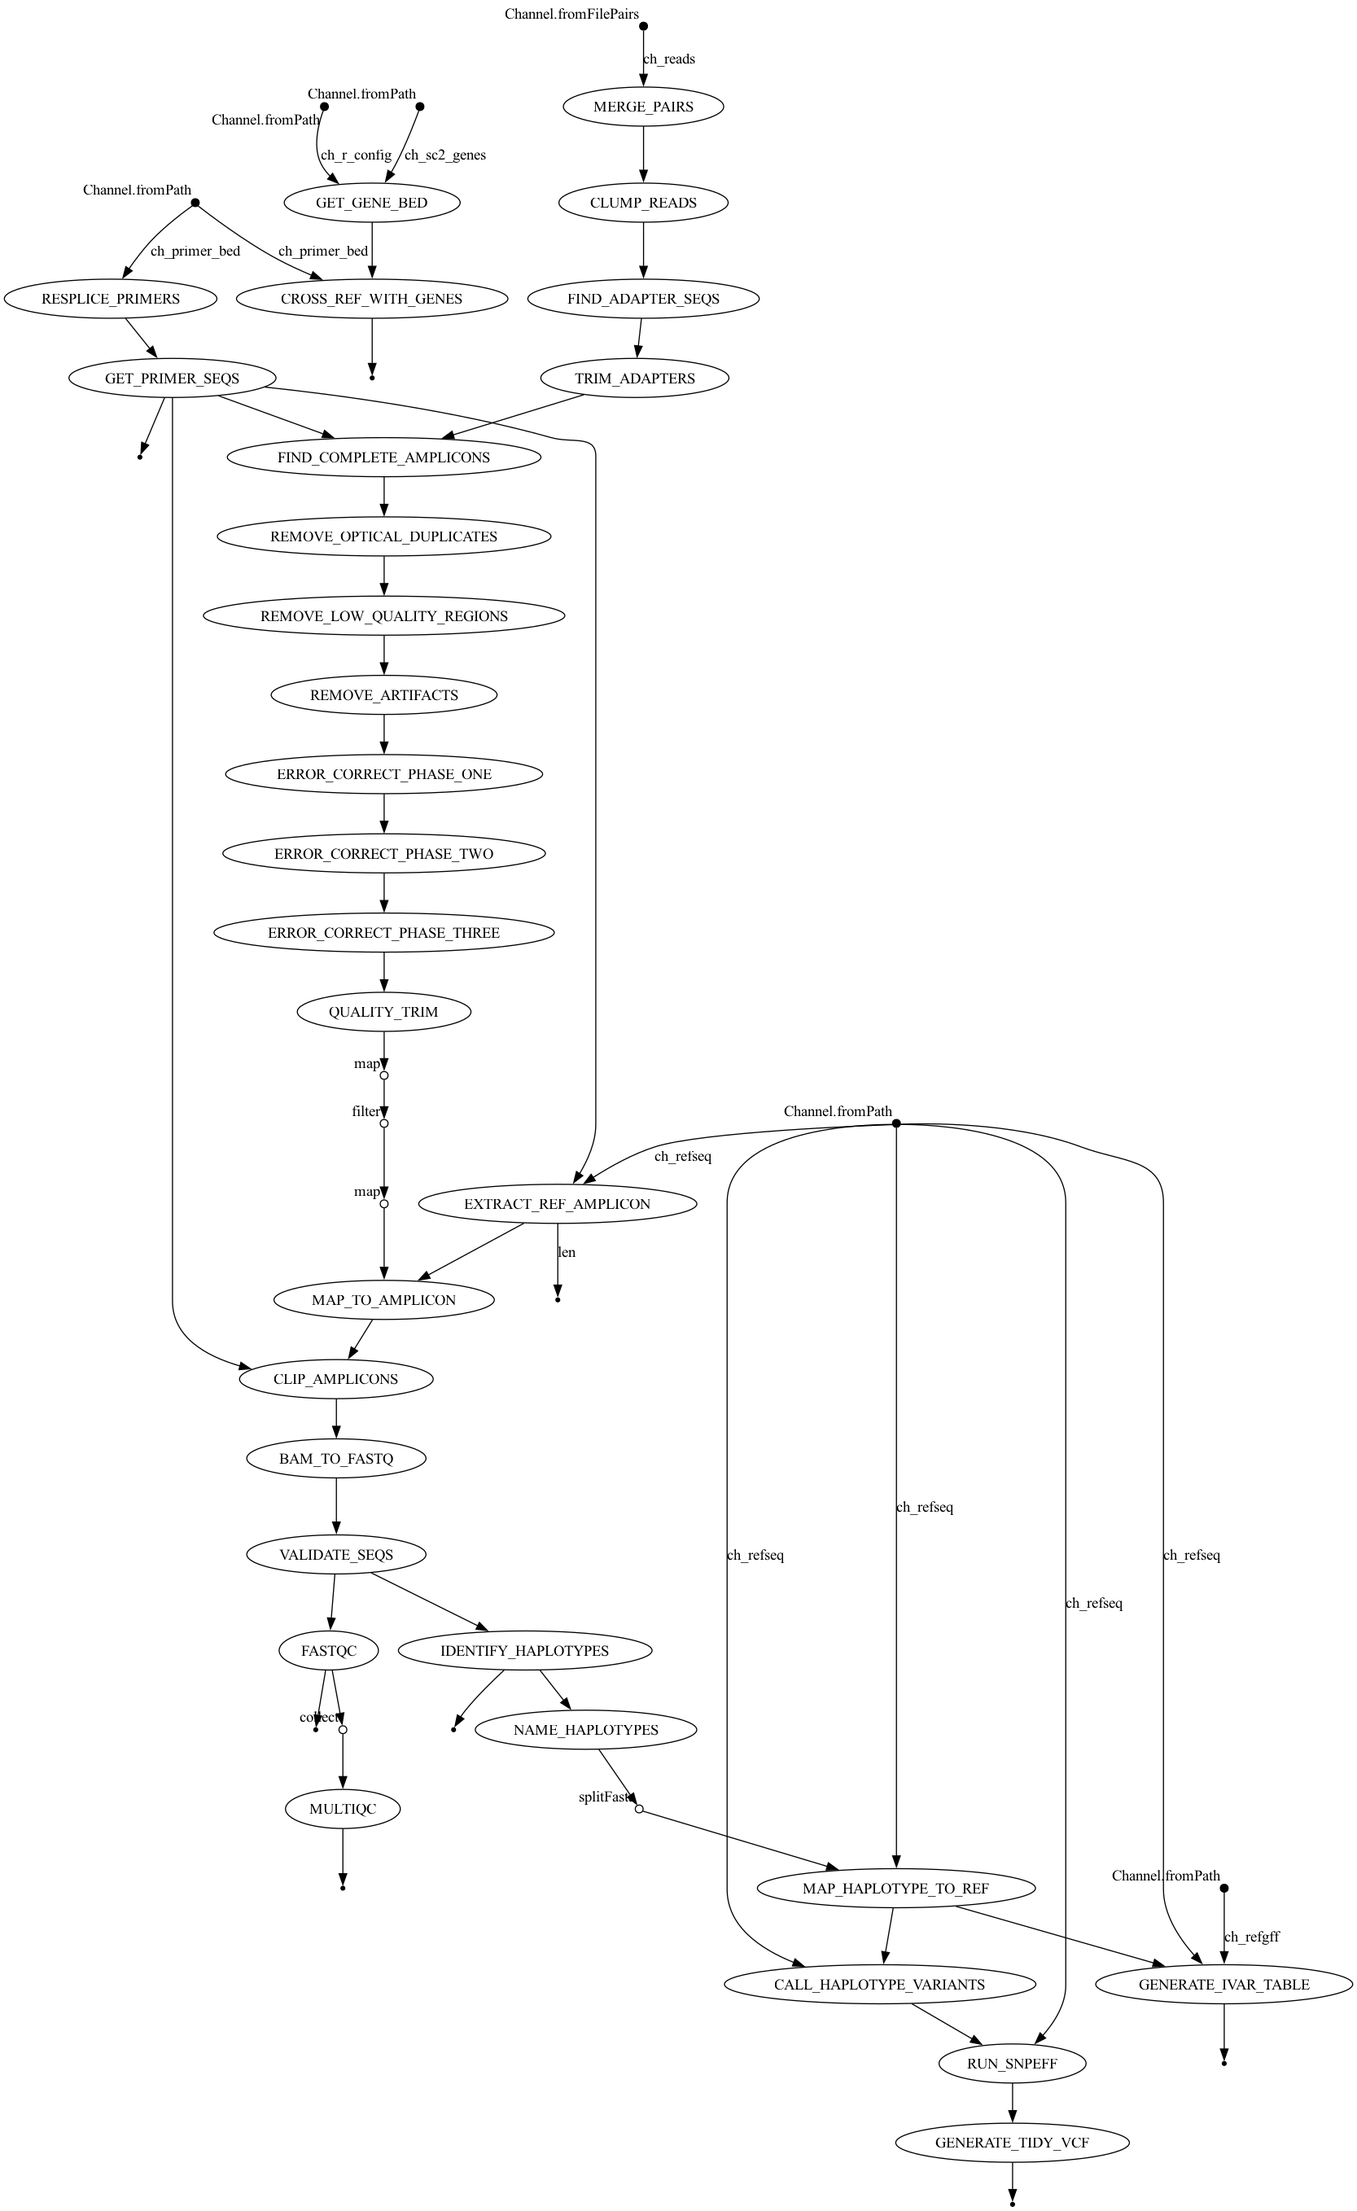
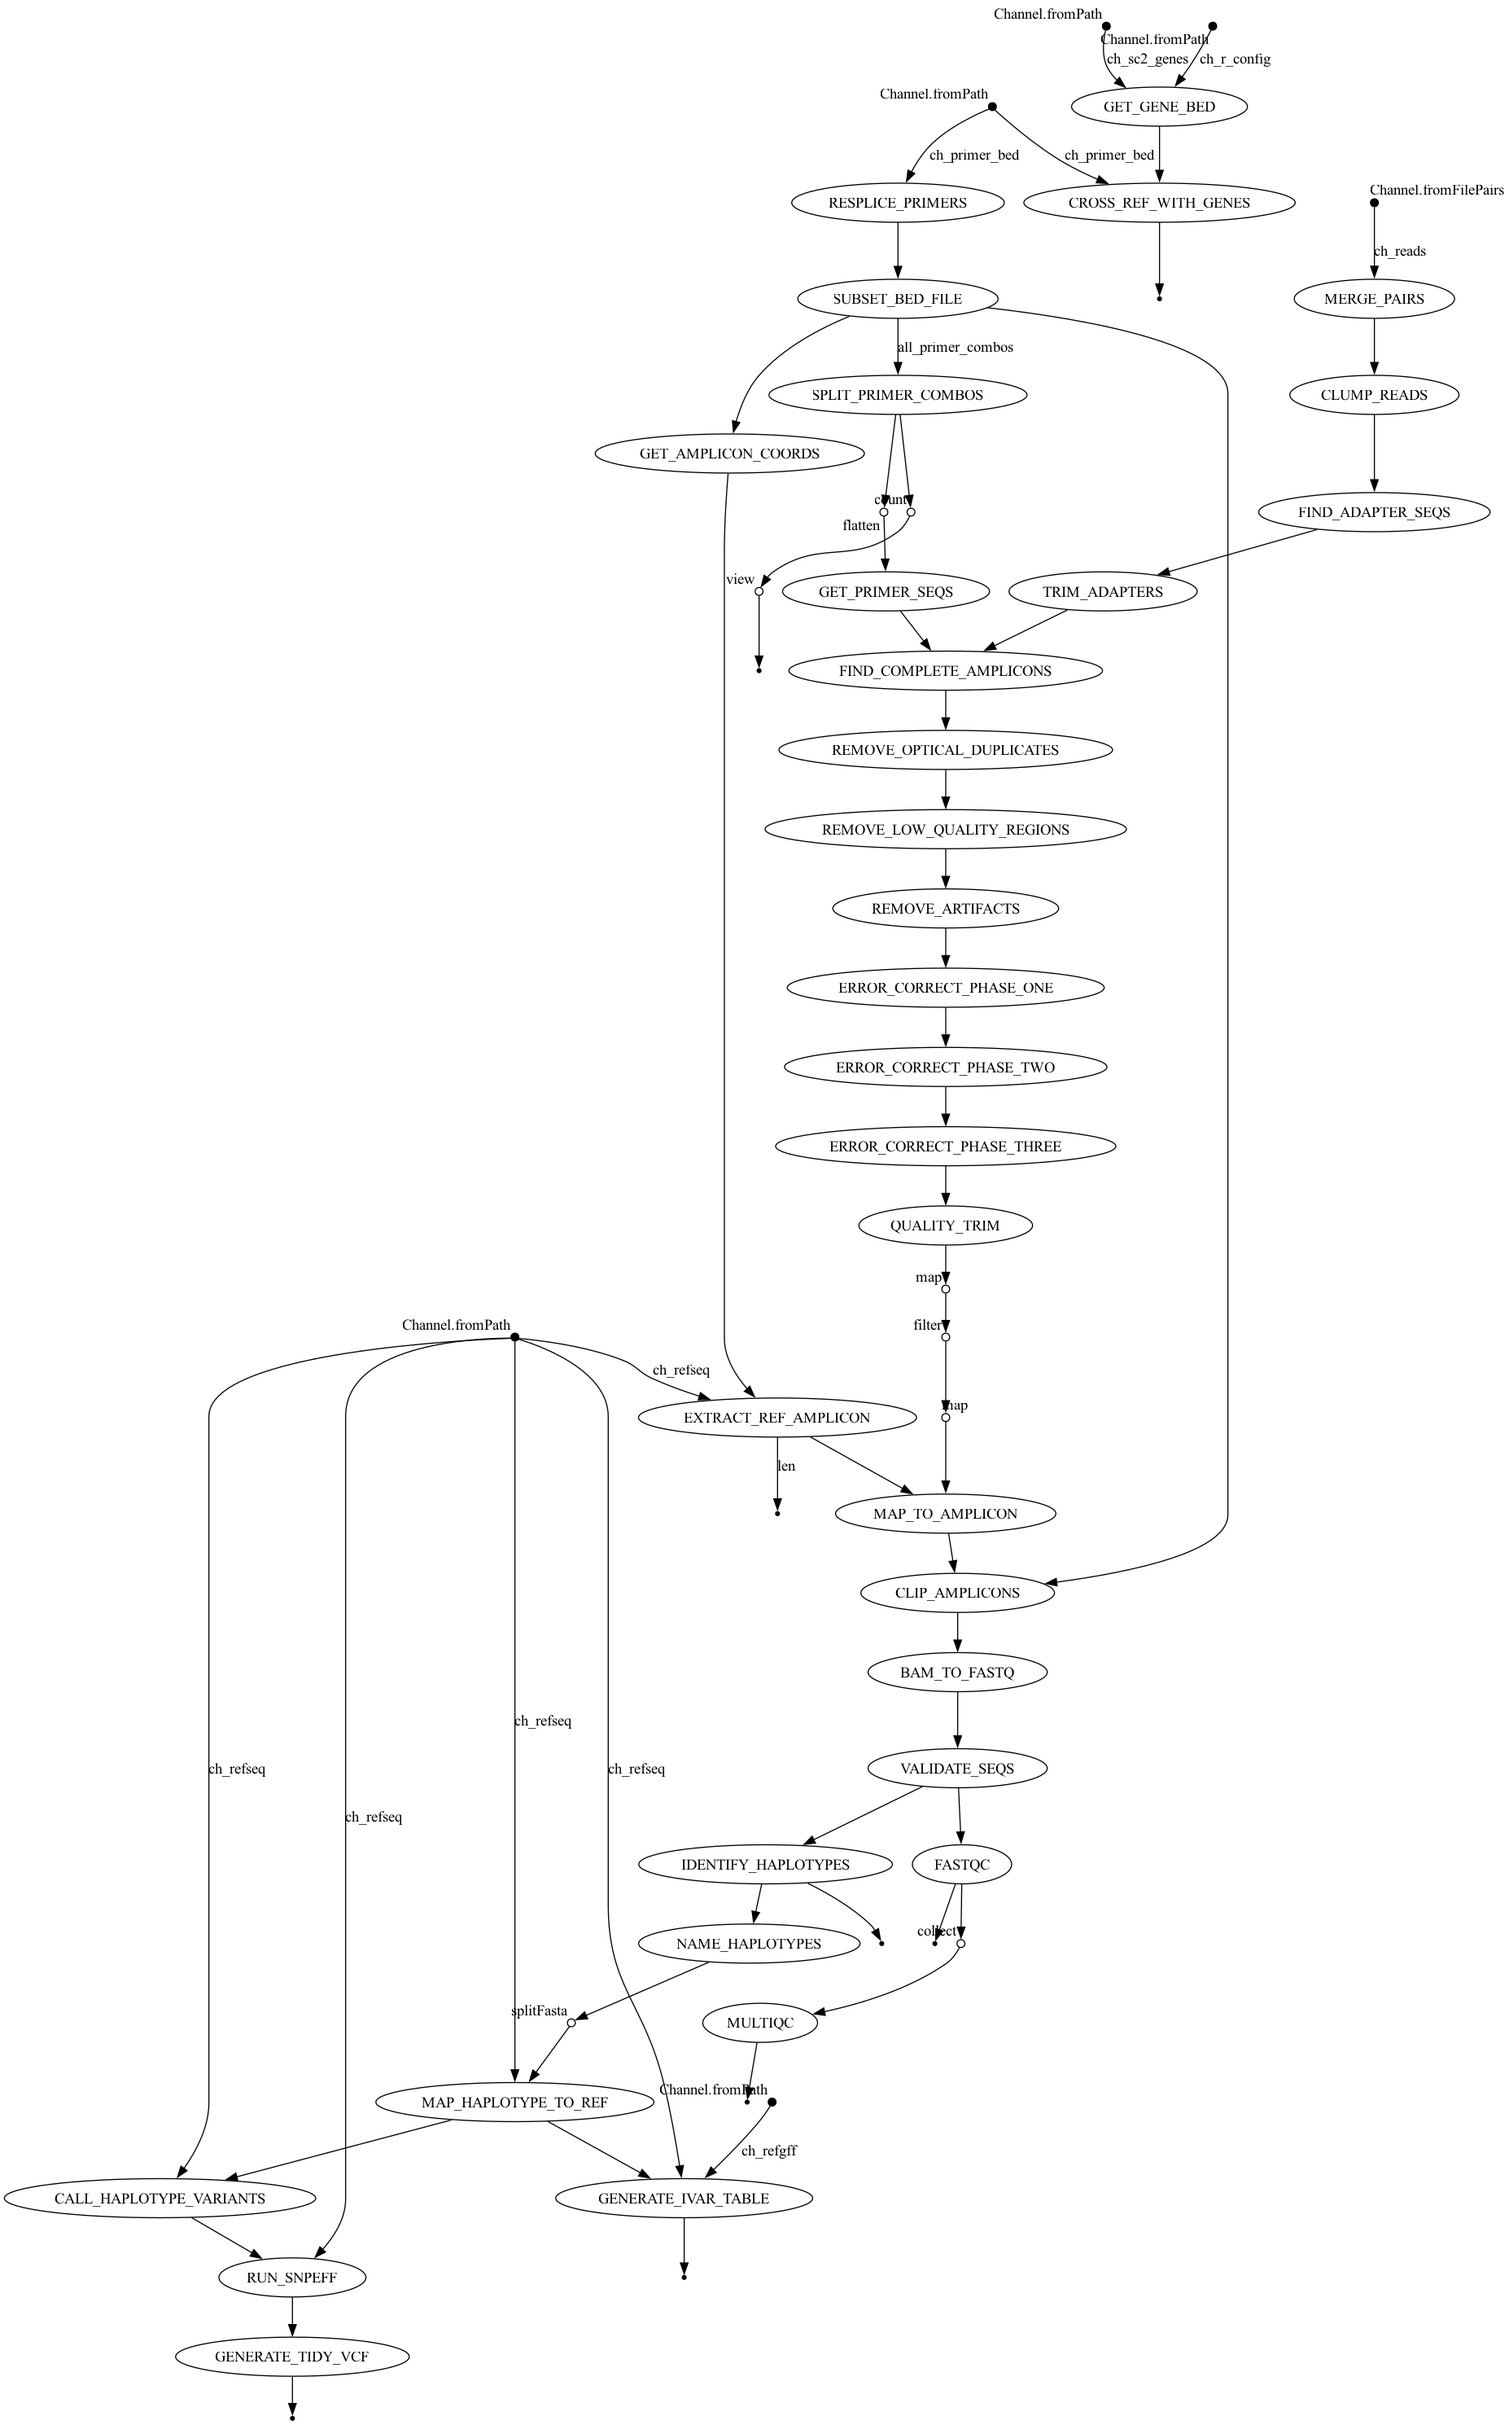
fixing a few more primer splicing bugs

diff --git a/bin/split_primer_combos.py b/bin/split_primer_combos.py
@@ -72,13 +72,11 @@ def main() -> None:
 
     bed_to_split, fwd_suff, rev_suff = parse_command_line_args()
 
-    bed_dfs = (
-        pl.read_csv(bed_to_split, separator="\t", has_header=False)
-        .with_columns(
-            pl.col("column_5").str.replace(fwd_suff, "").str.replace(rev_suff, "")
-        )
-        .partition_by("column_5")
-    )
+    bed_df = pl.read_csv(bed_to_split, separator="\t", has_header=False)
+
+    bed_dfs = bed_df.with_columns(
+        pl.col("column_5").str.replace(fwd_suff, "").str.replace(rev_suff, "")
+    ).partition_by("column_5")
 
     for df in bed_dfs:
         splicing = df.select("column_5").unique().item()
